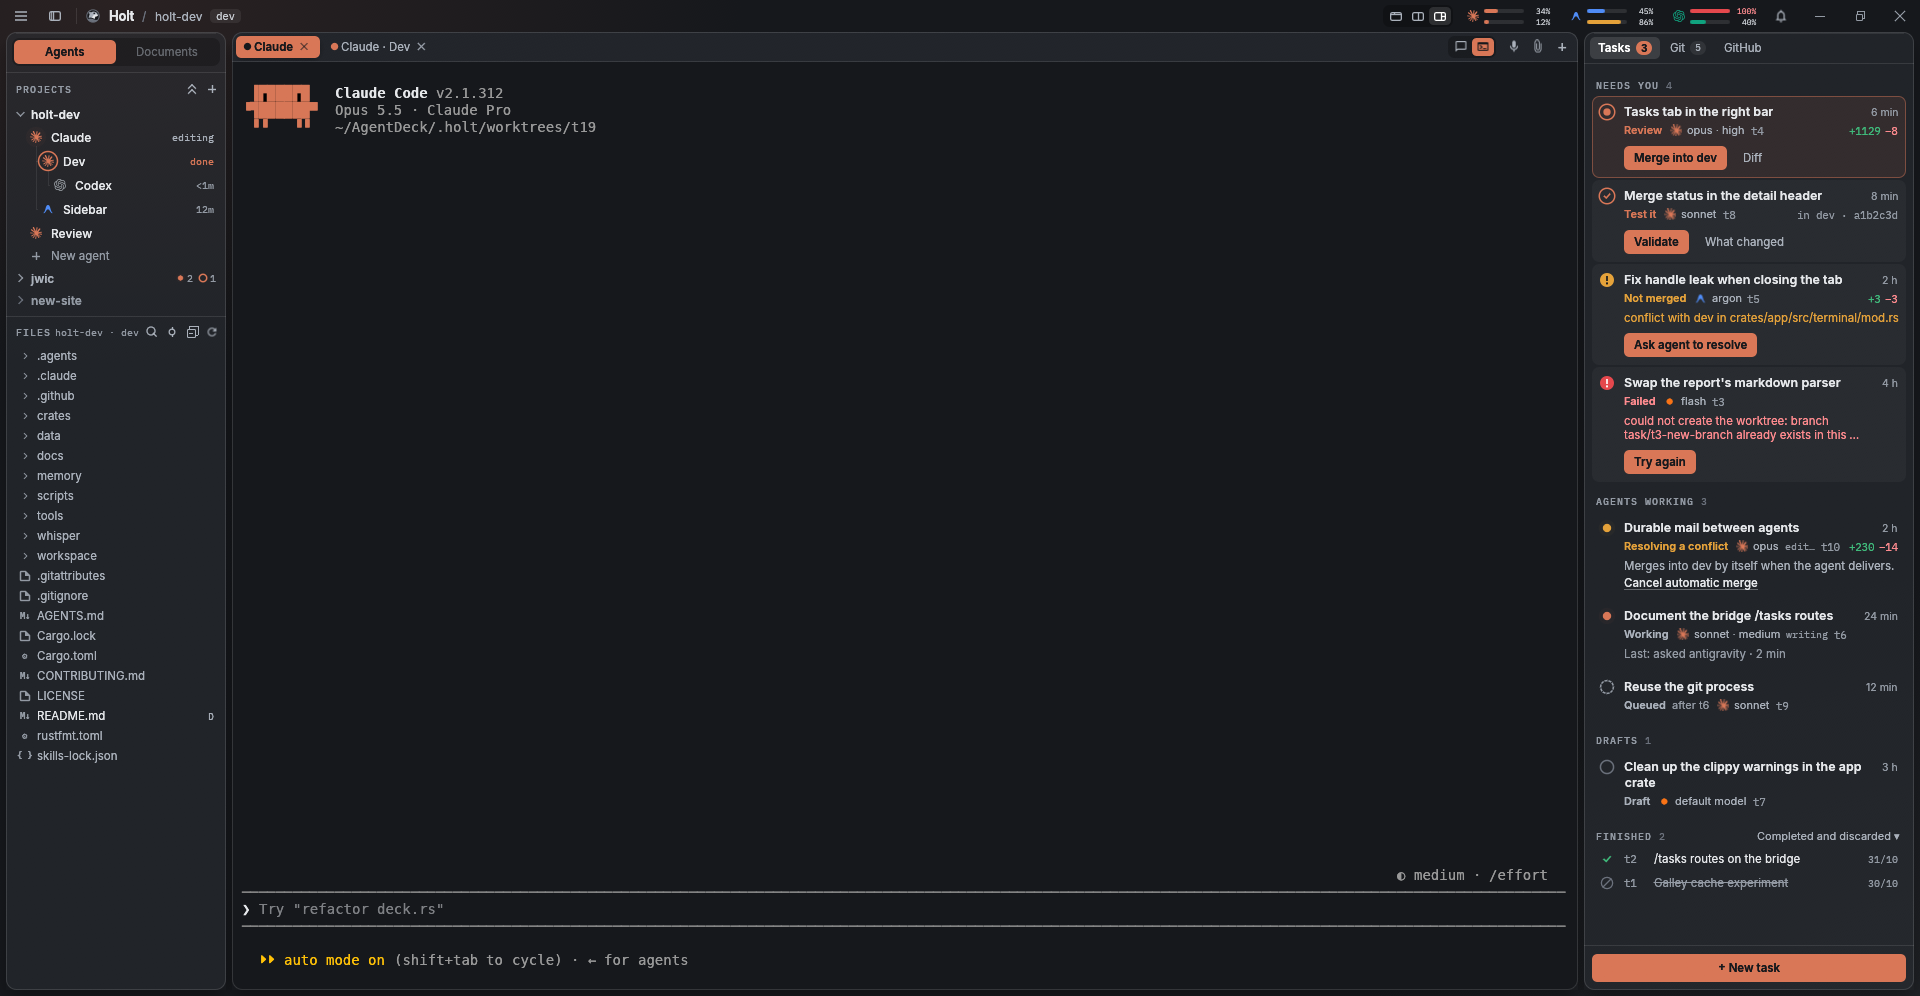
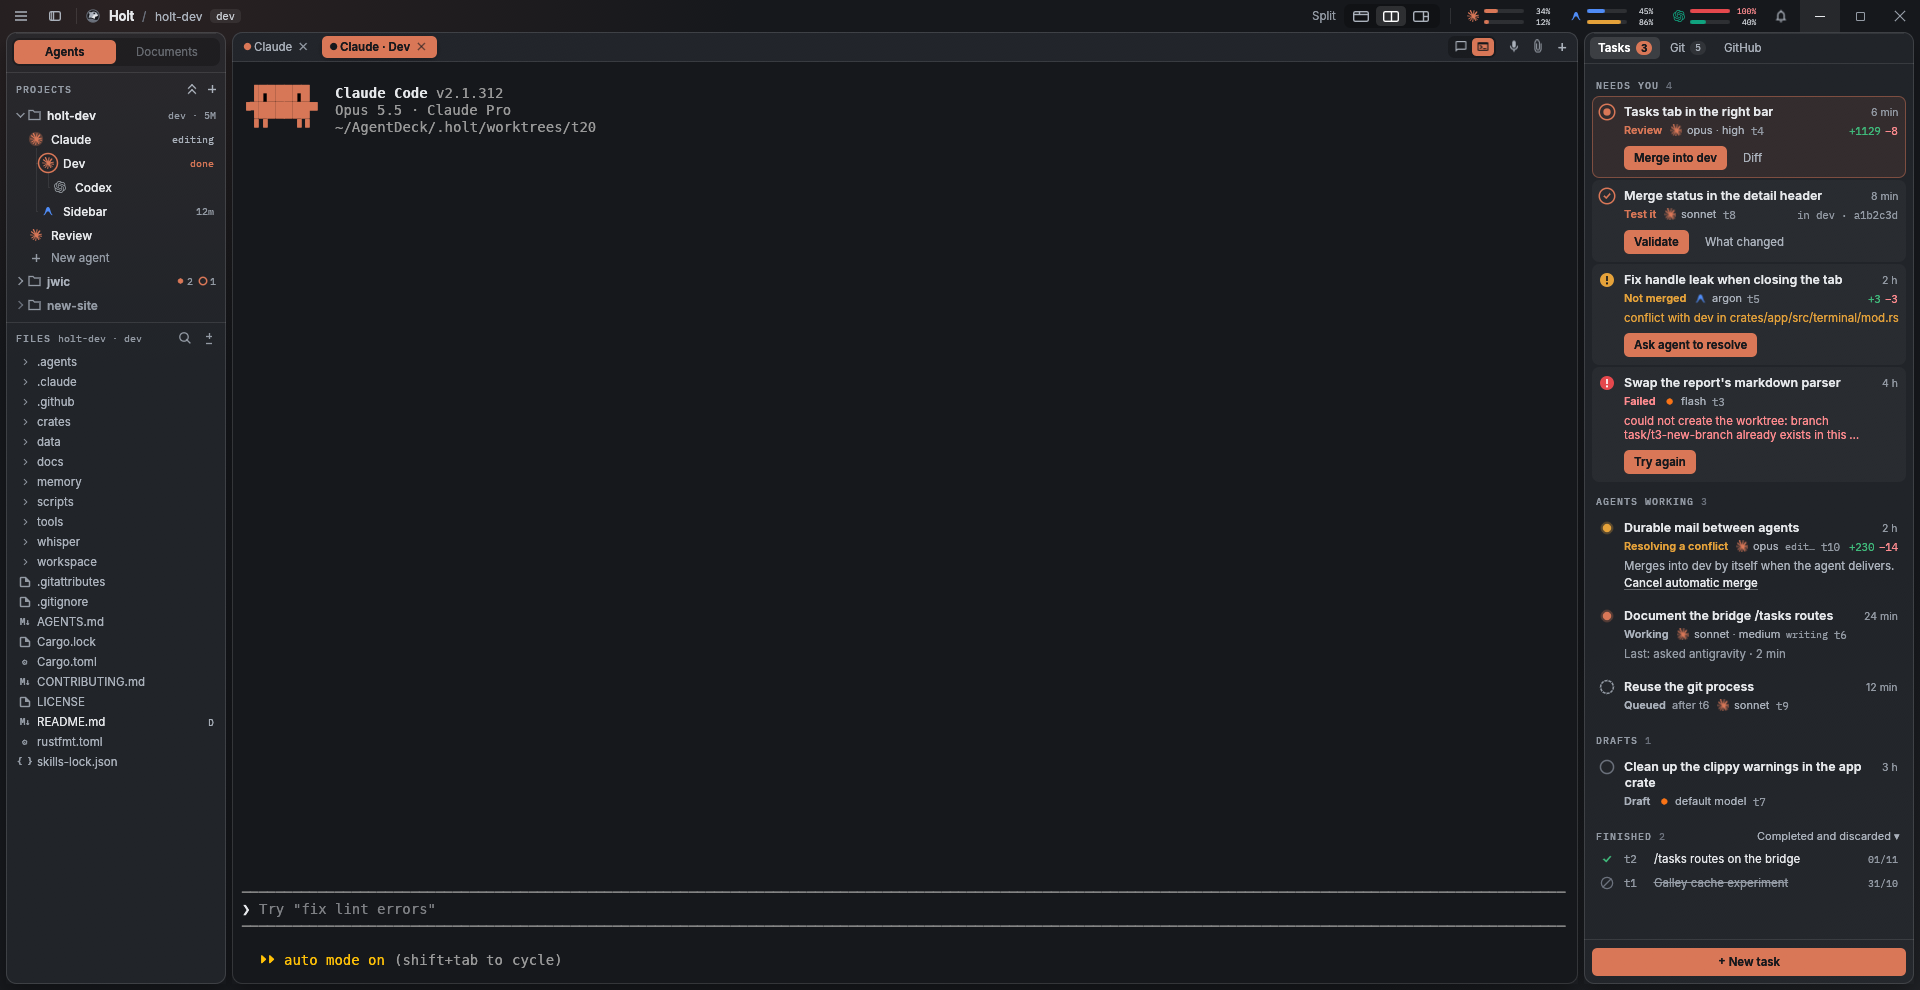
Docs: holt-ui decisions, manual tests, learning, README screenshot (t20)

diff --git a/.claude/skills/holt-ui/SKILL.md b/.claude/skills/holt-ui/SKILL.md
@@ -28,12 +28,23 @@ Decisions the user already made (do not reopen unless they ask):
 - "+ New agent" lives **inside** the active project, at the end of its agent list (a drawn 12 px `+` at `x = 30`, aligned
   with the agent logos, followed by `"New agent"`); the "+" of the PROJECTS header creates a project (tooltip `"New project"`).
   No loose "+" in the title bar.
-- Window organization (`Tabs | Split | Highlight`) lives in the **title bar**, right side, left of the subscription usage
-  meter: a 3-segment icon switch (`70×22` `recess` track, corners 6, segments corners 4, active segment in `selected` with
-  `text_strong` icon, not accent — a setting, not a state). Below `860 px` window width (or when `< 70 px` horizontal room
-  remains left of the usage meter) it compacts to a single `26×24` cycle button (`org_switch_mode`), and hides when `< 26 px`
-  remains. The window of the active tab has a 1 px border and a 3 px halo in the agent's color, and the others sit at 62%
+- Window organization (`Tabs | Split | Highlight`) lives in the **title bar** and is a real control, not decoration: a
+  `96×24` `recess` track (corners 6) with three `30×20` segments (corners 4, 2 px inset) and `16×11` glyphs (stroke 1.4);
+  idle `text_2`, hover `hover` + `text`, active `selected` + `text_strong`, not accent — a setting, not a state. Its
+  **right edge is anchored to the center island's right edge** (it sits above the area it rearranges); when that leaves
+  `< 16 px` to the usage meter it goes left of the meter with a 1 px, 16 px tall separator and 10 px gaps
+  (`titlebar::org_switch_layout`, pure and tested). The active mode's name (`"Split"`, `ui(11.5)` `text_3`) shows left
+  of the track and hides first when room runs out. Below `860 px` window width (or `< 96 px` free) it compacts to a
+  single `26×24` cycle button (`org_switch_mode`), hidden when `< 26 px`. Tooltips say the effect (`"Split: windows side
+  by side"`). Second entry point: the **LAYOUT** section at the top of the ☰ menu (three rows, a check on the current
+  one). The window of the active tab has a 1 px border and a 3 px halo in the agent's color, and the others sit at 62%
   (`theme::PANE_*`). Footer with shortcuts: not for now.
+- FILES header: only **filter** and **changed only** are always visible (toggles with a lit state); **collapse all**
+  fades in (~120 ms) while the pointer is over the FILES area, and **refresh** lives only in the header's right-click
+  menu (the tree already refreshes from the watcher). A project without a folder shows no header actions at all (no dead
+  greyed glyphs). Do not bring back a fourth always-visible button.
+- A project without a folder says so in the center too: `"<project> has no folder"` with the same `"Open folder…"` action,
+  never `"No project open"` while the sidebar shows an active project.
 
 ## Text and language
 
@@ -102,8 +113,10 @@ to the system font.
   header + 3 file rows below; when the tree is shorter than the cap, FILES rises right under it with no empty band), and
   FILES (24 px header; clicking collapses/expands, and when collapsed the header stays pinned at the bottom of the
   sidebar). Separators as wide as the island.
-- Sidebar rows have a 4 px margin (the selection does not touch the edge): project 22 px (▾/▸ always present and greyed
-  in `text_faint` when the project has no folder/agents; name in 600; no agent count; when collapsed, a state summary on
+- Sidebar rows have a 4 px margin (the selection does not touch the edge): project **24 px** (`PROJECT_ROW_H`, the same as an
+  agent row; ▾/▸ always present and greyed in `text_faint` when the project has no folder/agents; a 12 px folder glyph in
+  `text_3` before the name (600); the active project shows `"<branch> · <N>M"` on the right in `meta(10)` `text_3`, a long
+  branch cut with an ellipsis but the count kept, all dropped before the name is cut; no agent count; when collapsed, a state summary on
   the right as **glyphs + numbers** in `meta(10)` `text_3`: pulsing dot in the agent's colour + count working, unseen ring
   + count finished, nothing when all idle; inactive projects start collapsed, expanded/collapsed persists per project, and
   clicking an inactive project's name activates and expands it), **agent 24 px** (`AGENT_ROW_H`), "+ New agent" 22 px
@@ -112,21 +125,26 @@ to the system font.
   **without the CLI prefix** (`"Dev"`, `"Review"`; a plain instance shows the CLI name, e.g. `"Claude"`) in Inter
   12 px/500 (600 if selected) 7 px after the box, and a **state tail** on the right in `meta(10)`: working = phase
   (`"editing"`, `"testing"`) in `text_2`; finished unseen = `"done"` / `"feito"` in accent; idle = compact idle time
-  (`"12m"` / `"12min"`) in `text_3`; hovering the row shows the shortened model tag (`projects::model_tag`) in `text_3`
+  (`"12m"` / `"12min"`) in `text_3`, **nothing under 1 minute** (`"<1m"` is noise); hovering the row shows the shortened model tag (`projects::model_tag`) in `text_3`
   (the full model is in the tooltip). The right-hand tail is cut with an ellipsis before the name is cut, nothing wraps.
   Selected: `accent_soft` + 2 px stripe in the accent color, name `text_strong`.
 - Explorer (`FILES`): 24 px header with `"FILES"`, `"<project> · <branch>"` in `meta(10)` `text_3` with ellipsis (hidden
-  when `< 24 px` room remains), and four 20×20 icon buttons: filter, **changed only** (files with a git letter),
-  collapse-all, refresh (dropping collapse-all then refresh at narrow widths). Filter opens a 24 px `recess` field
+  when `< 24 px` room remains; replaced by `"N changed"` in `meta(10)` `text_2` while changed-only is on) and the buttons:
+  `22×22` hit area, corners 5, 2 px apart, the last one 6 px from the island edge, one **12 px glyph box with stroke
+  1.3** for all (filter, `±` for changed only, collapse-all); idle `text_3`, hover `hover` + `text`, lit `selected` +
+  `text_strong`. Filter opens a 24 px `recess` field
   (corners 6, `Esc` or `×` closes) and flattens matching files to single-line rows (`name` + `parent_dir` in `meta(10)`
   `text_3` + git letter). Normal tree: 12 px indent, extension icons in `text_3`, Git letter (M, A, ?, D, R, U) in
-  `meta(10)` `text_2`; selected `selected_soft`, hover `hover`. Empty state when a project has no folder:
-  `"This project has no folder"` + Ghost `"Open folder…"`.
+  `meta(10)` `text_2`; selected `selected_soft`, hover `hover`. Empty state when a project has no folder: block starts
+  16 px under the header, `"This project has no folder"` in `ui(12)` `text_2` (wraps, centered), then 10 px under it a
+  Secondary `folder_button` (26 px, 12 px folder glyph + `"Open folder…"`). Debug states: `sidebar-hover` (shows the
+  collapse-all button), `sidebar-changed`, `sidebar-empty`, `sidebar-filter`.
 - Tabs (`ui/tabs.rs`): 30 px strip (`HEAD_H`), 22 px pills, corners 5, 3 px between them, padding 8; active in the
   agent's color, text `on_accent` 600 and a light shadow; without window or document focus, the active one is `selected`
   + `text_strong`; 7 px dot (halo working, 1.5 px ring finished unseen, 40% with no process); the ✕ is drawn (Inter does
   not have it). `StripKind::colored` picks between agent and document.
-- Icon buttons: in the title bar 26×24, corners 5; in headers 20×20, corners 4; hover `hover`.
+- Icon buttons: in the title bar 26×24, corners 5; in the PROJECTS header 20×20, corners 4; in the FILES header 22×22,
+  corners 5; hover `hover`.
 - Pane header, view switch (`panes::view_switch`): for the tabs that have a chat view, a 48×22 `recess` track (corners 6) with two
   icon segments (`Icon::ChatBubble`, `Icon::Terminal`, 13 px); the active segment is filled with the tab agent's colour and
   its icon is `on_accent`; the other is `text_2` (`text` and `hover` on hover). The tooltips are "Chat view" / "Terminal view".
@@ -195,10 +213,13 @@ Build and run in a separate data folder (the user's is in use), with the fake pr
 ```sh
 cargo build -p holt
 HOLT_HOME=<scratch>/home HOLT_SMOKE=<scratch>/shot HOLT_DEBUG_UI=projects-demo \
-  ./target/debug/holt.exe        # saves <scratch>/shot/screen.png and exits
+  ./target/debug/holt.exe        # saves <scratch>/shot/screen.png and exits (Linux/Wayland: prefix
+                                 # `WAYLAND_DISPLAY= WINIT_UNIX_BACKEND=x11` or the window never draws)
 ```
 
-For Portuguese, write `{"language": "pt-BR"}` to `<scratch>/home/cfg/config.json` before running. Other states in
+Check with `projects-demo` **and** with a scratch `HOLT_HOME` whose `config.json` opens this repository as the only
+project (`projectList` with one `{id, name, path, openTabs}` and `activeProject`): that is what a real user sees and
+the demo hides (no agents, a real branch, a long task branch name). For Portuguese, write `{"language": "pt-BR"}` to `<scratch>/home/cfg/config.json` before running. Other states in
 `HOLT_DEBUG_UI` (list in `debug_ui::apply`, `crates/app/src/debug_ui.rs`): `settings`, `newtab`, `usage-demo`,
 `git-demo`, `split-drag`, `tasks-demo`, `tasks-detail`, `tasks-conflict`, `tasks-stopped`, `tasks-messages`,
 `tasks-validating`, `tasks-new`, `notices`, `notices-open`, `branch:<name>`... For the README screenshot

diff --git a/memory/manual-tests.md b/memory/manual-tests.md
@@ -328,9 +328,9 @@ Dictation and attachments ★
   - Verified: with login, Antigravity usage appears. Remaining: case without login/network.
 - [ ] Demo: `HOLT_DEBUG_UI=usage-demo` (Claude 34%/12%, Antigravity with weekly warning, Codex with exhausted session) and `usage-panel` (same with panel open).
 - [ ] Explorer without repeated root row; "Refresh" re-reads tree and "Collapse all" closes folders.
-- [ ] **Window organization in title bar** (t19): the 3-segment icon switch (`Tabs` / `Split` / `Highlight`, `70×22` `recess` track, active segment in `selected`, not accent) sits on the right side of the title bar, left of the usage meter; below `860 px` window width (or `< 70 px` free room) it compacts to a single `26×24` cycle button, and hides when `< 26 px` remains. No `ORGANIZATION` section remains in the sidebar.
-- [ ] **PROJECTS and agent rows** (t19): `PROJECTS` header (24 px) has collapse-all double chevron and `+` (`"New project"`). Inactive projects start collapsed; clicking an inactive project's name activates and expands it; collapsed projects show a state summary on the right as glyphs + numbers (`• N` working, `○ N` finished unseen in `meta(10)`, nothing when all idle; no agent count). Projects without folder/agents keep a greyed chevron. Agent rows (24 px) show the name without the CLI prefix (`"Dev"`, `"Review"`; plain instance `"Claude"`) and a state tail on the right (`editing` in `text_2`, `"done"` / `"feito"` in accent, `"12m"` / `"12min"` in `text_3`, or the shortened model tag on hover). `"+ New agent"` (22 px) draws a 12 px `+` at `x = 30` aligned with the agent logos, followed by `"New agent"`.
-- [ ] **PROJECTS / FILES divider and FILES header** (t19): the 6 px separator above `FILES` is draggable (`paint_splitter` on hover, saved as `sidebarProjectsRatio`, minimum 3 agent rows above and header + 3 file rows below); when the project/agent tree is shorter than the cap, `FILES` rises right under it with no empty band. `FILES` header (24 px) shows `"FILES"` (click collapses and pins the header at the bottom of the sidebar), `"<project> · <branch>"` in `meta(10)` `text_3` with ellipsis, and four 20×20 buttons: filter (opens a 24 px `recess` field, `Esc` or `×` closes, flattens matches to `name` + `parent_dir`), **changed only** (files with a git letter), collapse-all, refresh. Empty state for a project without folder: `"This project has no folder"` + Ghost `"Open folder…"`. Check at 150–480 px sidebar widths in English and Portuguese.
+- [ ] **Window organization in title bar** (t19, reworked in t20): a real control, not decoration. A `96×24` `recess` track (corners 6) with three `30×20` segments (corners 4, 2 px inset) and `16×11` glyphs (stroke 1.4); idle `text_2`, hover `hover` + `text`, active `selected` + `text_strong` (no accent). Its right edge sits on the center island's right edge; with the usage meter closer than 16 px it moves left of the meter with a 1 px, 16 px tall separator and 10 px gaps. The active mode's name (`"Split"`) shows left of the track and hides first when room runs out. Tooltips say the effect (`"Split: windows side by side"`). Below `860 px` (or `< 96 px` free) it compacts to one `26×24` cycle button, hidden `< 26 px`. **By hand:** hover and click each segment; resize the window across 860 px and watch the switch change place; in pt-BR check the name and tooltips. ☰ menu has a **LAYOUT** section (Tabs / Split / Highlight) with a check on the current one: choosing one changes the layout and the title bar switch follows. No `ORGANIZATION` section remains in the sidebar.
+- [ ] **PROJECTS and agent rows** (t19): `PROJECTS` header (24 px) has collapse-all double chevron and `+` (`"New project"`). Inactive projects start collapsed; clicking an inactive project's name activates and expands it; collapsed projects show a state summary on the right as glyphs + numbers (`• N` working, `○ N` finished unseen in `meta(10)`, nothing when all idle; no agent count). Projects without folder/agents keep a greyed chevron. Agent rows (24 px) show the name without the CLI prefix (`"Dev"`, `"Review"`; plain instance `"Claude"`) and a state tail on the right (`editing` in `text_2`, `"done"` / `"feito"` in accent, `"12m"` / `"12min"` in `text_3`, or the shortened model tag on hover). `"+ New agent"` (22 px) draws a 12 px `+` at `x = 30` aligned with the agent logos, followed by `"New agent"`. (t20) Project rows are 24 px like agent rows: chevron, a 12 px folder glyph in `text_3`, the name; the active project shows `"<branch> · <N>M"` on the right in `meta(10)` `text_3` (long branch cut with an ellipsis, the count stays; dropped before the name is cut). Idle under 1 minute (`"<1m"`) shows nothing on the agent row. Check with a single real project (scratch `HOLT_HOME` opening this repository).
+- [ ] **PROJECTS / FILES divider and FILES header** (t19): the 6 px separator above `FILES` is draggable (`paint_splitter` on hover, saved as `sidebarProjectsRatio`, minimum 3 agent rows above and header + 3 file rows below); when the project/agent tree is shorter than the cap, `FILES` rises right under it with no empty band. `FILES` header (24 px) shows `"FILES"` (click collapses and pins the header at the bottom of the sidebar), `"<project> · <branch>"` in `meta(10)` `text_3` with ellipsis, and four 20×20 buttons: filter (opens a 24 px `recess` field, `Esc` or `×` closes, flattens matches to `name` + `parent_dir`), **changed only** (files with a git letter), collapse-all, refresh. Empty state for a project without folder: `"This project has no folder"` + Ghost `"Open folder…"`. Check at 150–480 px sidebar widths in English and Portuguese. (t20, replaces the four 20×20 buttons) `FILES` header: always-visible **filter** and **changed only** (`±` glyph, tooltip `"Show changed files only"`, lit = `selected` + `text_strong`; while on, the meta says `"N changed"` in `text_2`), `22×22` hit areas, corners 5, 2 px apart, last one 6 px from the edge, one 12 px glyph grid with stroke 1.3. **Collapse all** fades in (~120 ms) only while the pointer is over the FILES area; **Refresh** exists only in the right-click menu of the header (the watcher already refreshes the tree). A project without a folder shows no header actions and the empty state: message in `text_2` 16 px under the header, Secondary `"Open folder…"` button (26 px, folder glyph) 10 px under it. The center card of such a project says `"<project> has no folder"` with the same action. **By hand:** hover fade, right-click menu (Collapse all / Refresh), changed-only toggle and its count, `Open folder…` in both places.
 - [ ] Usage: once session renewal time passes without new reading, session bar shows faded 0% and panel reads "renewed · awaiting new reading".
 - [ ] Antigravity with expired token in Credential Manager and valid token in `~\.gemini\oauth_creds.json`: quota appears. Without login, circle reappears within 20 s after login.
 - [ ] Codex: open new tab (rollout without `rate_limits`): prior session usage remains visible.

diff --git a/memory/learnings/smoke-screenshot-on-wayland-needs-x11.md b/memory/learnings/smoke-screenshot-on-wayland-needs-x11.md
@@ -1,0 +1,13 @@
+---
+title: HOLT_SMOKE screenshots on Linux/Wayland need the X11 backend
+summary: On a Wayland session the window never draws and HOLT_SMOKE hangs; run with WAYLAND_DISPLAY= WINIT_UNIX_BACKEND=x11 (and a timeout).
+touches: [crates/app/src/smoke.rs, .claude/skills/holt-ui/SKILL.md]
+---
+`HOLT_SMOKE=<dir> ./target/debug/holt` only saves `screen.png` after the first frames are drawn. Under a GNOME Wayland
+session started from a sandboxed shell the window is never presented, so the app sits at `read_command;` forever and
+no screenshot appears.
+
+**Why:** no frame callbacks arrive for a window the compositor never maps; the smoke timer is armed from the draw loop.
+**How to apply:** `timeout 40 env WAYLAND_DISPLAY= WINIT_UNIX_BACKEND=x11 HOLT_HOME=… HOLT_SMOKE=… HOLT_DEBUG_UI=… ./target/debug/holt`
+(Xwayland on `DISPLAY=:0` is enough, no xvfb needed). The window may open larger than a requested `windowWidth` below ~820 px.
+Never `pkill holt`: the user's own Holt runs under the same name; stop only the process you started.
